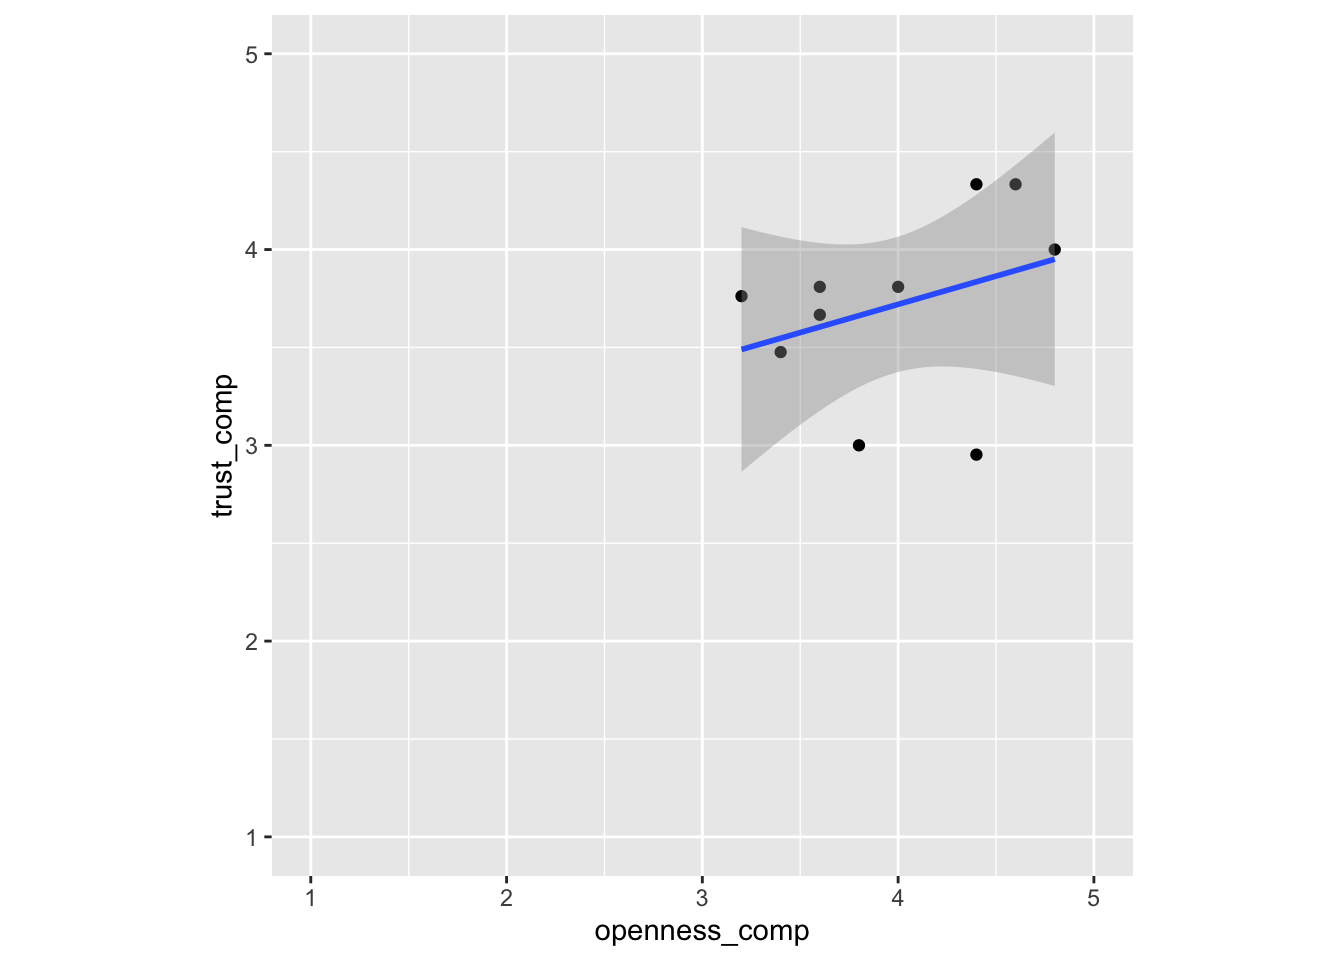
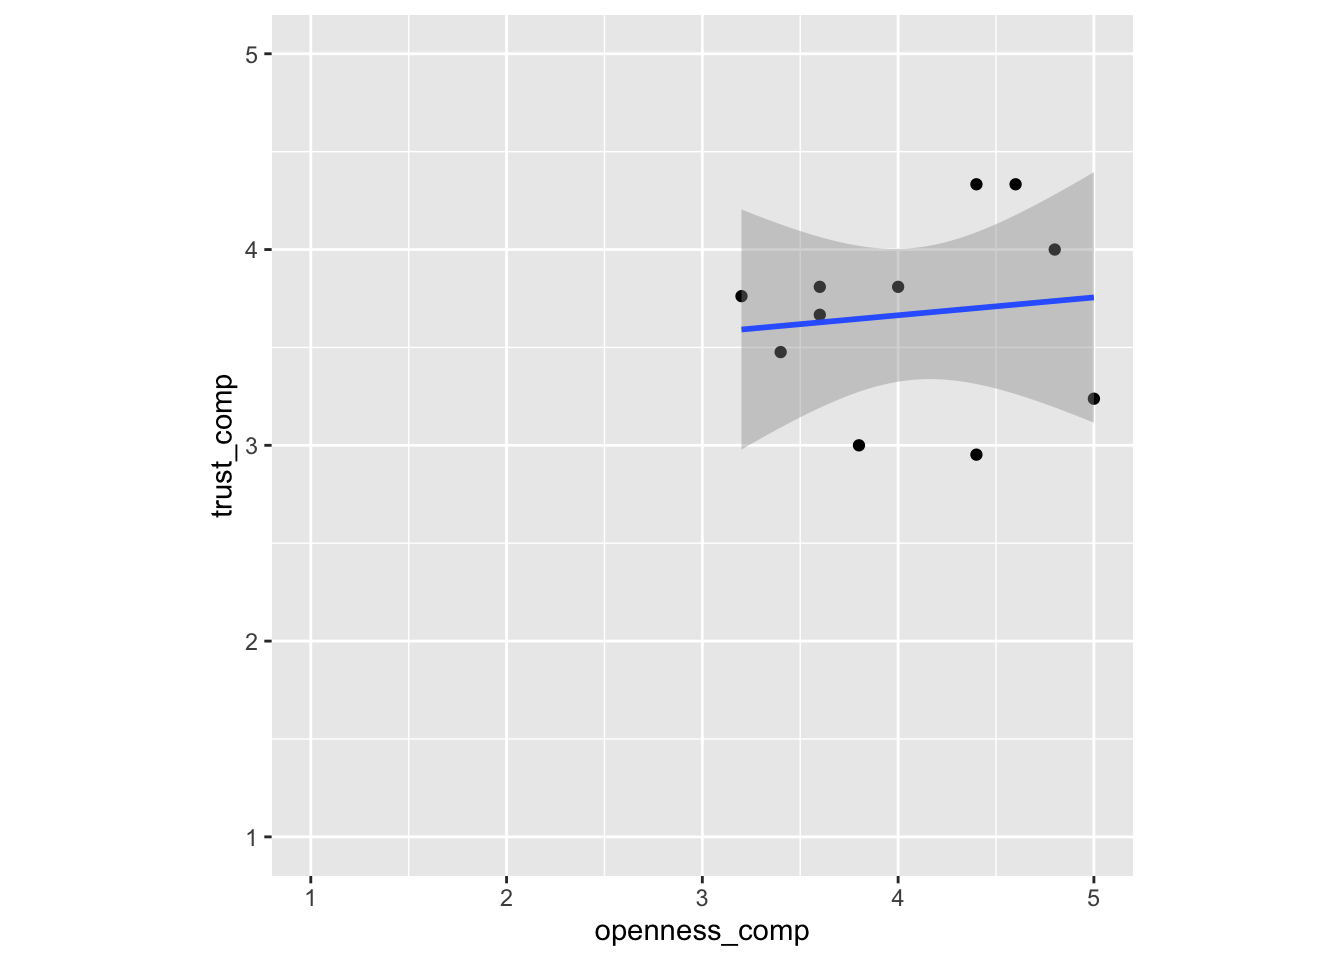
Add correlation to Survey-01; add questions to 2023-08-30 notes.

diff --git a/docs/survey-01.html b/docs/survey-01.html
@@ -1081,20 +1081,14 @@ trust_find_tech_solutions
 <div class="cell">
 <div class="sourceCode cell-code" id="cb18"><pre class="sourceCode r code-with-copy"><code class="sourceCode r"><span id="cb18-1"><a href="#cb18-1" aria-hidden="true" tabindex="-1"></a>survey_01_recoded <span class="sc">|&gt;</span></span>
 <span id="cb18-2"><a href="#cb18-2" aria-hidden="true" tabindex="-1"></a>  dplyr<span class="sc">::</span><span class="fu">select</span>(openness_comp, trust_comp) <span class="sc">|&gt;</span></span>
-<span id="cb18-3"><a href="#cb18-3" aria-hidden="true" tabindex="-1"></a>  <span class="co">#ggpairs()</span></span>
-<span id="cb18-4"><a href="#cb18-4" aria-hidden="true" tabindex="-1"></a>  <span class="fu">ggplot</span>() <span class="sc">+</span></span>
-<span id="cb18-5"><a href="#cb18-5" aria-hidden="true" tabindex="-1"></a>  <span class="fu">aes</span>(openness_comp, trust_comp) <span class="sc">+</span></span>
-<span id="cb18-6"><a href="#cb18-6" aria-hidden="true" tabindex="-1"></a>  <span class="fu">geom_point</span>() <span class="sc">+</span></span>
-<span id="cb18-7"><a href="#cb18-7" aria-hidden="true" tabindex="-1"></a>  <span class="fu">geom_smooth</span>(<span class="at">method =</span> <span class="st">"lm"</span>,</span>
-<span id="cb18-8"><a href="#cb18-8" aria-hidden="true" tabindex="-1"></a>              <span class="at">formula =</span> y <span class="sc">~</span> x,</span>
-<span id="cb18-9"><a href="#cb18-9" aria-hidden="true" tabindex="-1"></a>              <span class="at">geom =</span> <span class="st">"smooth"</span>) <span class="sc">+</span></span>
-<span id="cb18-10"><a href="#cb18-10" aria-hidden="true" tabindex="-1"></a>  <span class="fu">xlim</span>(<span class="dv">1</span>,<span class="dv">5</span>) <span class="sc">+</span></span>
-<span id="cb18-11"><a href="#cb18-11" aria-hidden="true" tabindex="-1"></a>  <span class="fu">ylim</span>(<span class="dv">1</span>,<span class="dv">5</span>) <span class="sc">+</span></span>
-<span id="cb18-12"><a href="#cb18-12" aria-hidden="true" tabindex="-1"></a>  <span class="fu">coord_fixed</span>()</span></code><button title="Copy to Clipboard" class="code-copy-button"><i class="bi"></i></button></pre></div>
-<div class="cell-output cell-output-stderr">
-<pre><code>Warning in geom_smooth(method = "lm", formula = y ~ x, geom = "smooth"):
-Ignoring unknown parameters: `geom`</code></pre>
-</div>
+<span id="cb18-3"><a href="#cb18-3" aria-hidden="true" tabindex="-1"></a>  <span class="fu">ggplot</span>() <span class="sc">+</span></span>
+<span id="cb18-4"><a href="#cb18-4" aria-hidden="true" tabindex="-1"></a>  <span class="fu">aes</span>(openness_comp, trust_comp) <span class="sc">+</span></span>
+<span id="cb18-5"><a href="#cb18-5" aria-hidden="true" tabindex="-1"></a>  <span class="fu">geom_point</span>() <span class="sc">+</span></span>
+<span id="cb18-6"><a href="#cb18-6" aria-hidden="true" tabindex="-1"></a>  <span class="fu">geom_smooth</span>(<span class="at">method =</span> <span class="st">"lm"</span>,</span>
+<span id="cb18-7"><a href="#cb18-7" aria-hidden="true" tabindex="-1"></a>              <span class="at">formula =</span> y <span class="sc">~</span> x) <span class="sc">+</span></span>
+<span id="cb18-8"><a href="#cb18-8" aria-hidden="true" tabindex="-1"></a>  <span class="fu">xlim</span>(<span class="dv">1</span>,<span class="dv">5</span>) <span class="sc">+</span></span>
+<span id="cb18-9"><a href="#cb18-9" aria-hidden="true" tabindex="-1"></a>  <span class="fu">ylim</span>(<span class="dv">1</span>,<span class="dv">5</span>) <span class="sc">+</span></span>
+<span id="cb18-10"><a href="#cb18-10" aria-hidden="true" tabindex="-1"></a>  <span class="fu">coord_fixed</span>()</span></code><button title="Copy to Clipboard" class="code-copy-button"><i class="bi"></i></button></pre></div>
 <div class="cell-output-display">
 <div id="fig-openness-trust-composite" class="quarto-figure quarto-figure-center anchored">
 <figure class="figure">
@@ -1102,6 +1096,22 @@ Ignoring unknown parameters: `geom`</code></pre>
 <figcaption class="figure-caption">Figure&nbsp;5: Composite ‘openness’ and ‘trust’ scores</figcaption>
 </figure>
 </div>
+</div>
+</div>
+<div class="cell">
+<div class="sourceCode cell-code" id="cb19"><pre class="sourceCode r code-with-copy"><code class="sourceCode r"><span id="cb19-1"><a href="#cb19-1" aria-hidden="true" tabindex="-1"></a><span class="fu">with</span>(survey_01_recoded, stats<span class="sc">::</span><span class="fu">cor.test</span>(openness_comp, trust_comp))</span></code><button title="Copy to Clipboard" class="code-copy-button"><i class="bi"></i></button></pre></div>
+<div class="cell-output cell-output-stdout">
+<pre><code>
+    Pearson's product-moment correlation
+
+data:  openness_comp and trust_comp
+t = 0.35104, df = 9, p-value = 0.7336
+alternative hypothesis: true correlation is not equal to 0
+95 percent confidence interval:
+ -0.5199005  0.6694250
+sample estimates:
+     cor 
+0.116221 </code></pre>
 </div>
 </div>
 

diff --git a/docs/notes/wk02-2023-08-30.html b/docs/notes/wk02-2023-08-30.html
@@ -415,6 +415,13 @@ Rick Gilmore
 </div>
 </div>
 </section>
+<section id="questions" class="slide level2">
+<h2>Questions</h2>
+<ul>
+<li>Why is it important to talk about and illuminate the cultural values that are part of scientific research?</li>
+<li>How important are these values relative to facts and findings or methods?</li>
+</ul>
+</section>
 <section class="slide level2">
 
 <blockquote>
@@ -433,6 +440,13 @@ Rick Gilmore
 <span class="citation" data-cites="Merton1973-vf">(<a href="#/references" role="doc-biblioref" onclick="">Merton, 1973, p. 267</a>)</span>
 </p>
 </section>
+<section id="questions-1" class="slide level2">
+<h2>Questions</h2>
+<ul>
+<li>What’s the difference between principled skepticism about specific scientific claims and “anti-intellectualism”?</li>
+<li>Do you agree with Merton that “Local contagions of anti-intellectualism threaten to become epidemic.”?</li>
+</ul>
+</section>
 <section id="the-ethos-of-science" class="slide level2 unnumbered">
 <h2>The <a href="https://www.dictionary.com/browse/ethos">ethos</a> of science</h2>
 <blockquote>
@@ -441,6 +455,12 @@ Rick Gilmore
 <p style="text-align:center;">
 <span class="citation" data-cites="Merton1973-vf">(<a href="#/references" role="doc-biblioref" onclick="">Merton, 1973, p. 270</a>)</span>
 </p>
+</section>
+<section id="question" class="slide level2">
+<h2>Question</h2>
+<ul>
+<li><em>How</em> are scientific methods efficient?</li>
+</ul>
 </section>
 <section class="slide level2">
 
